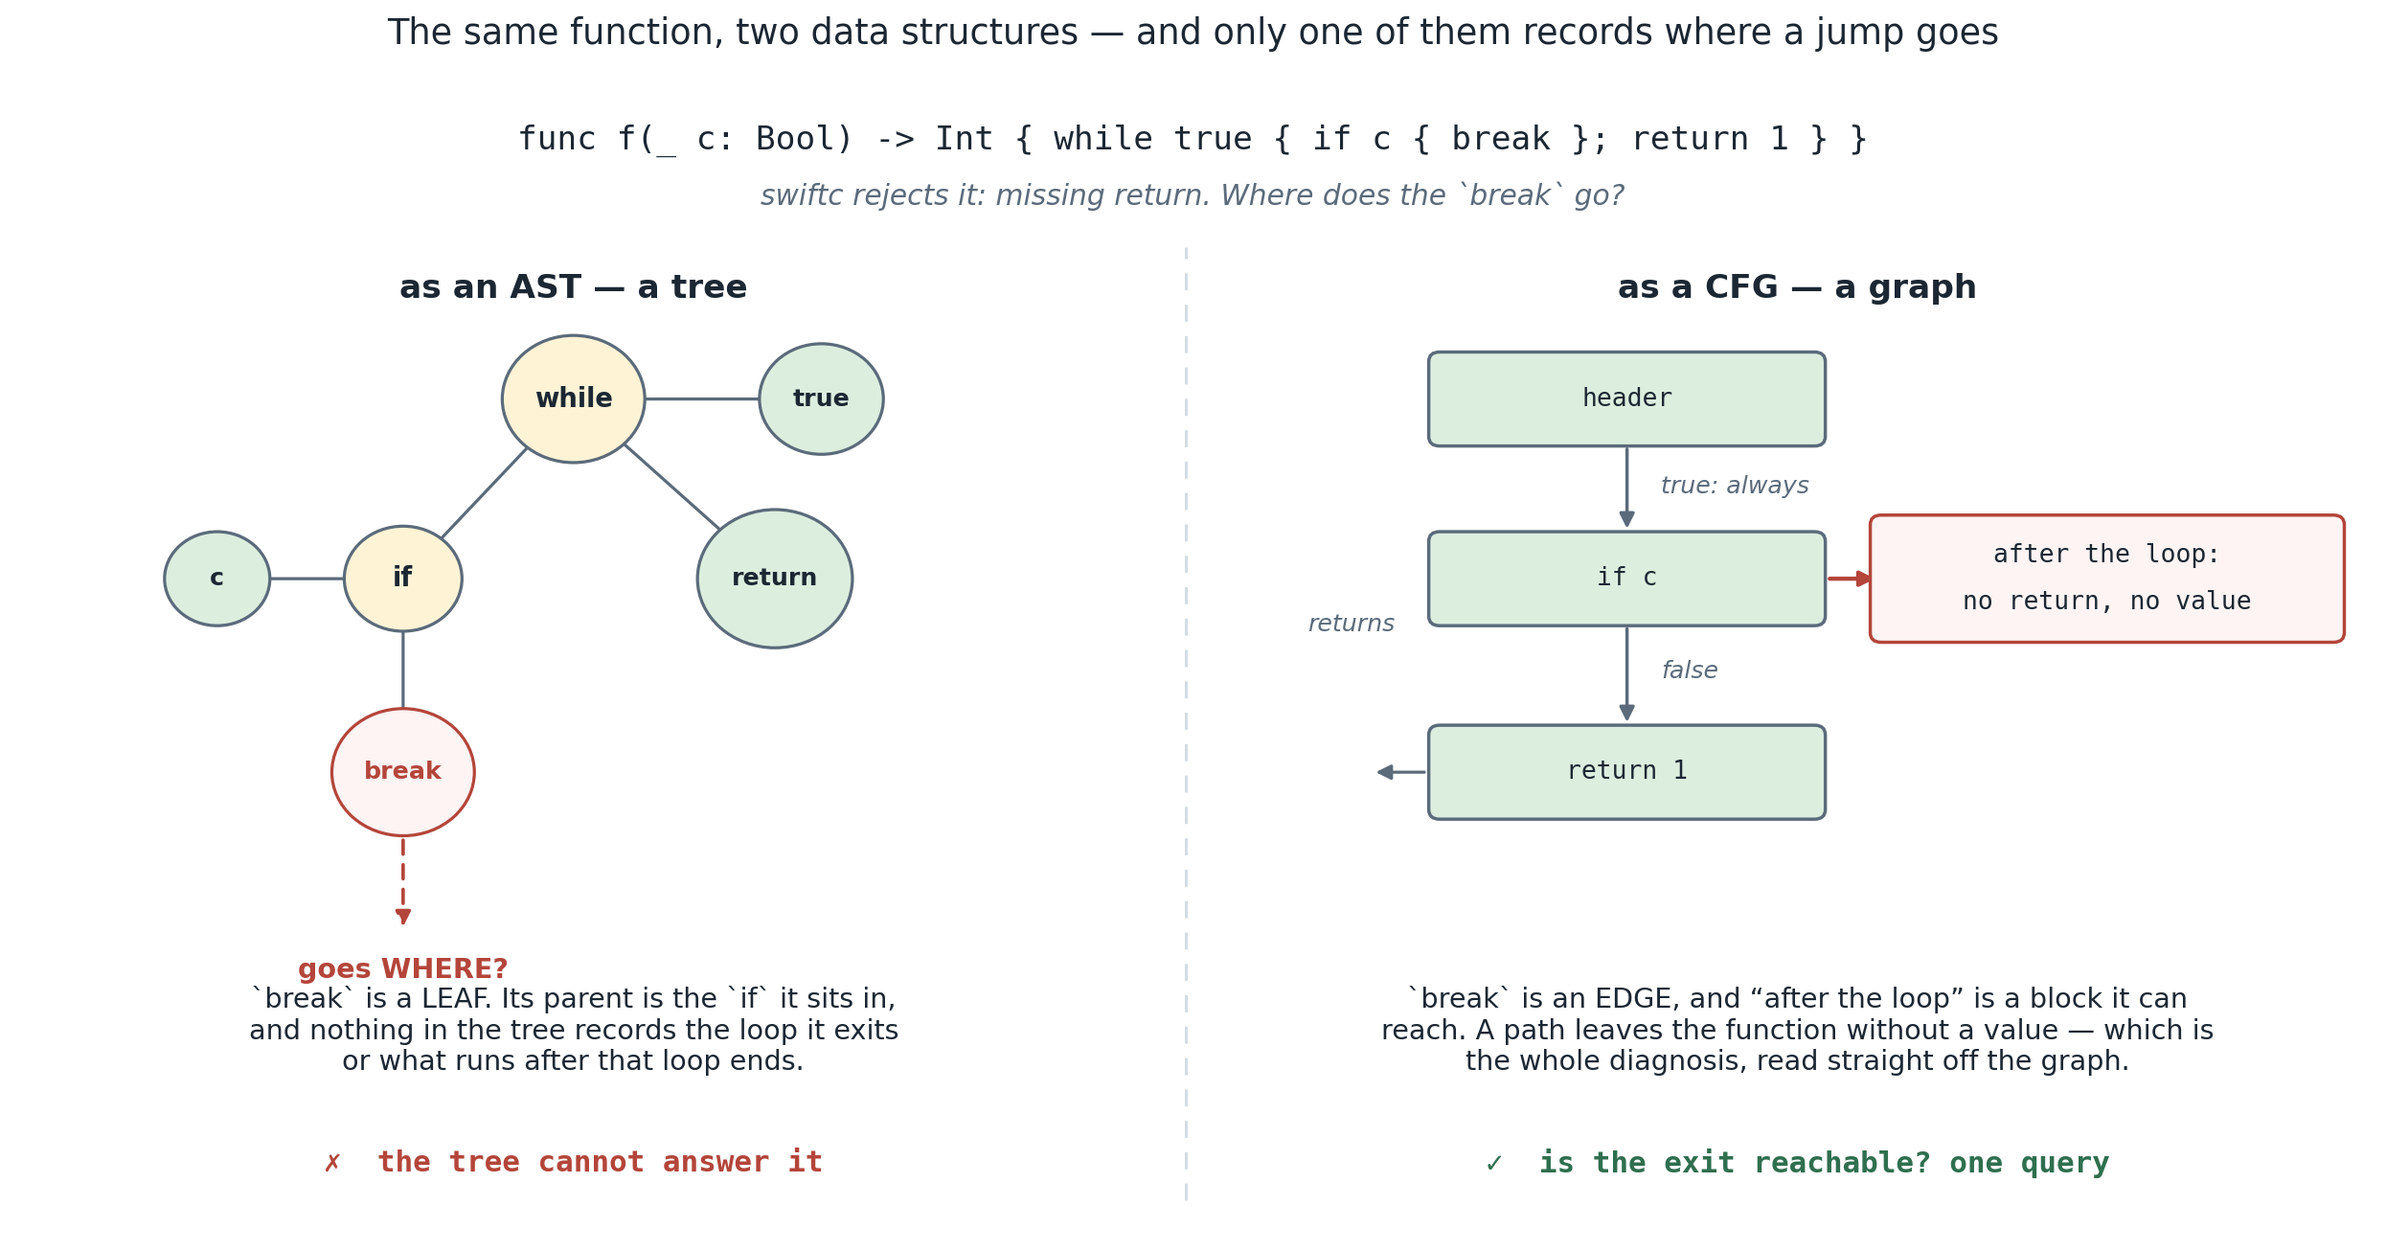
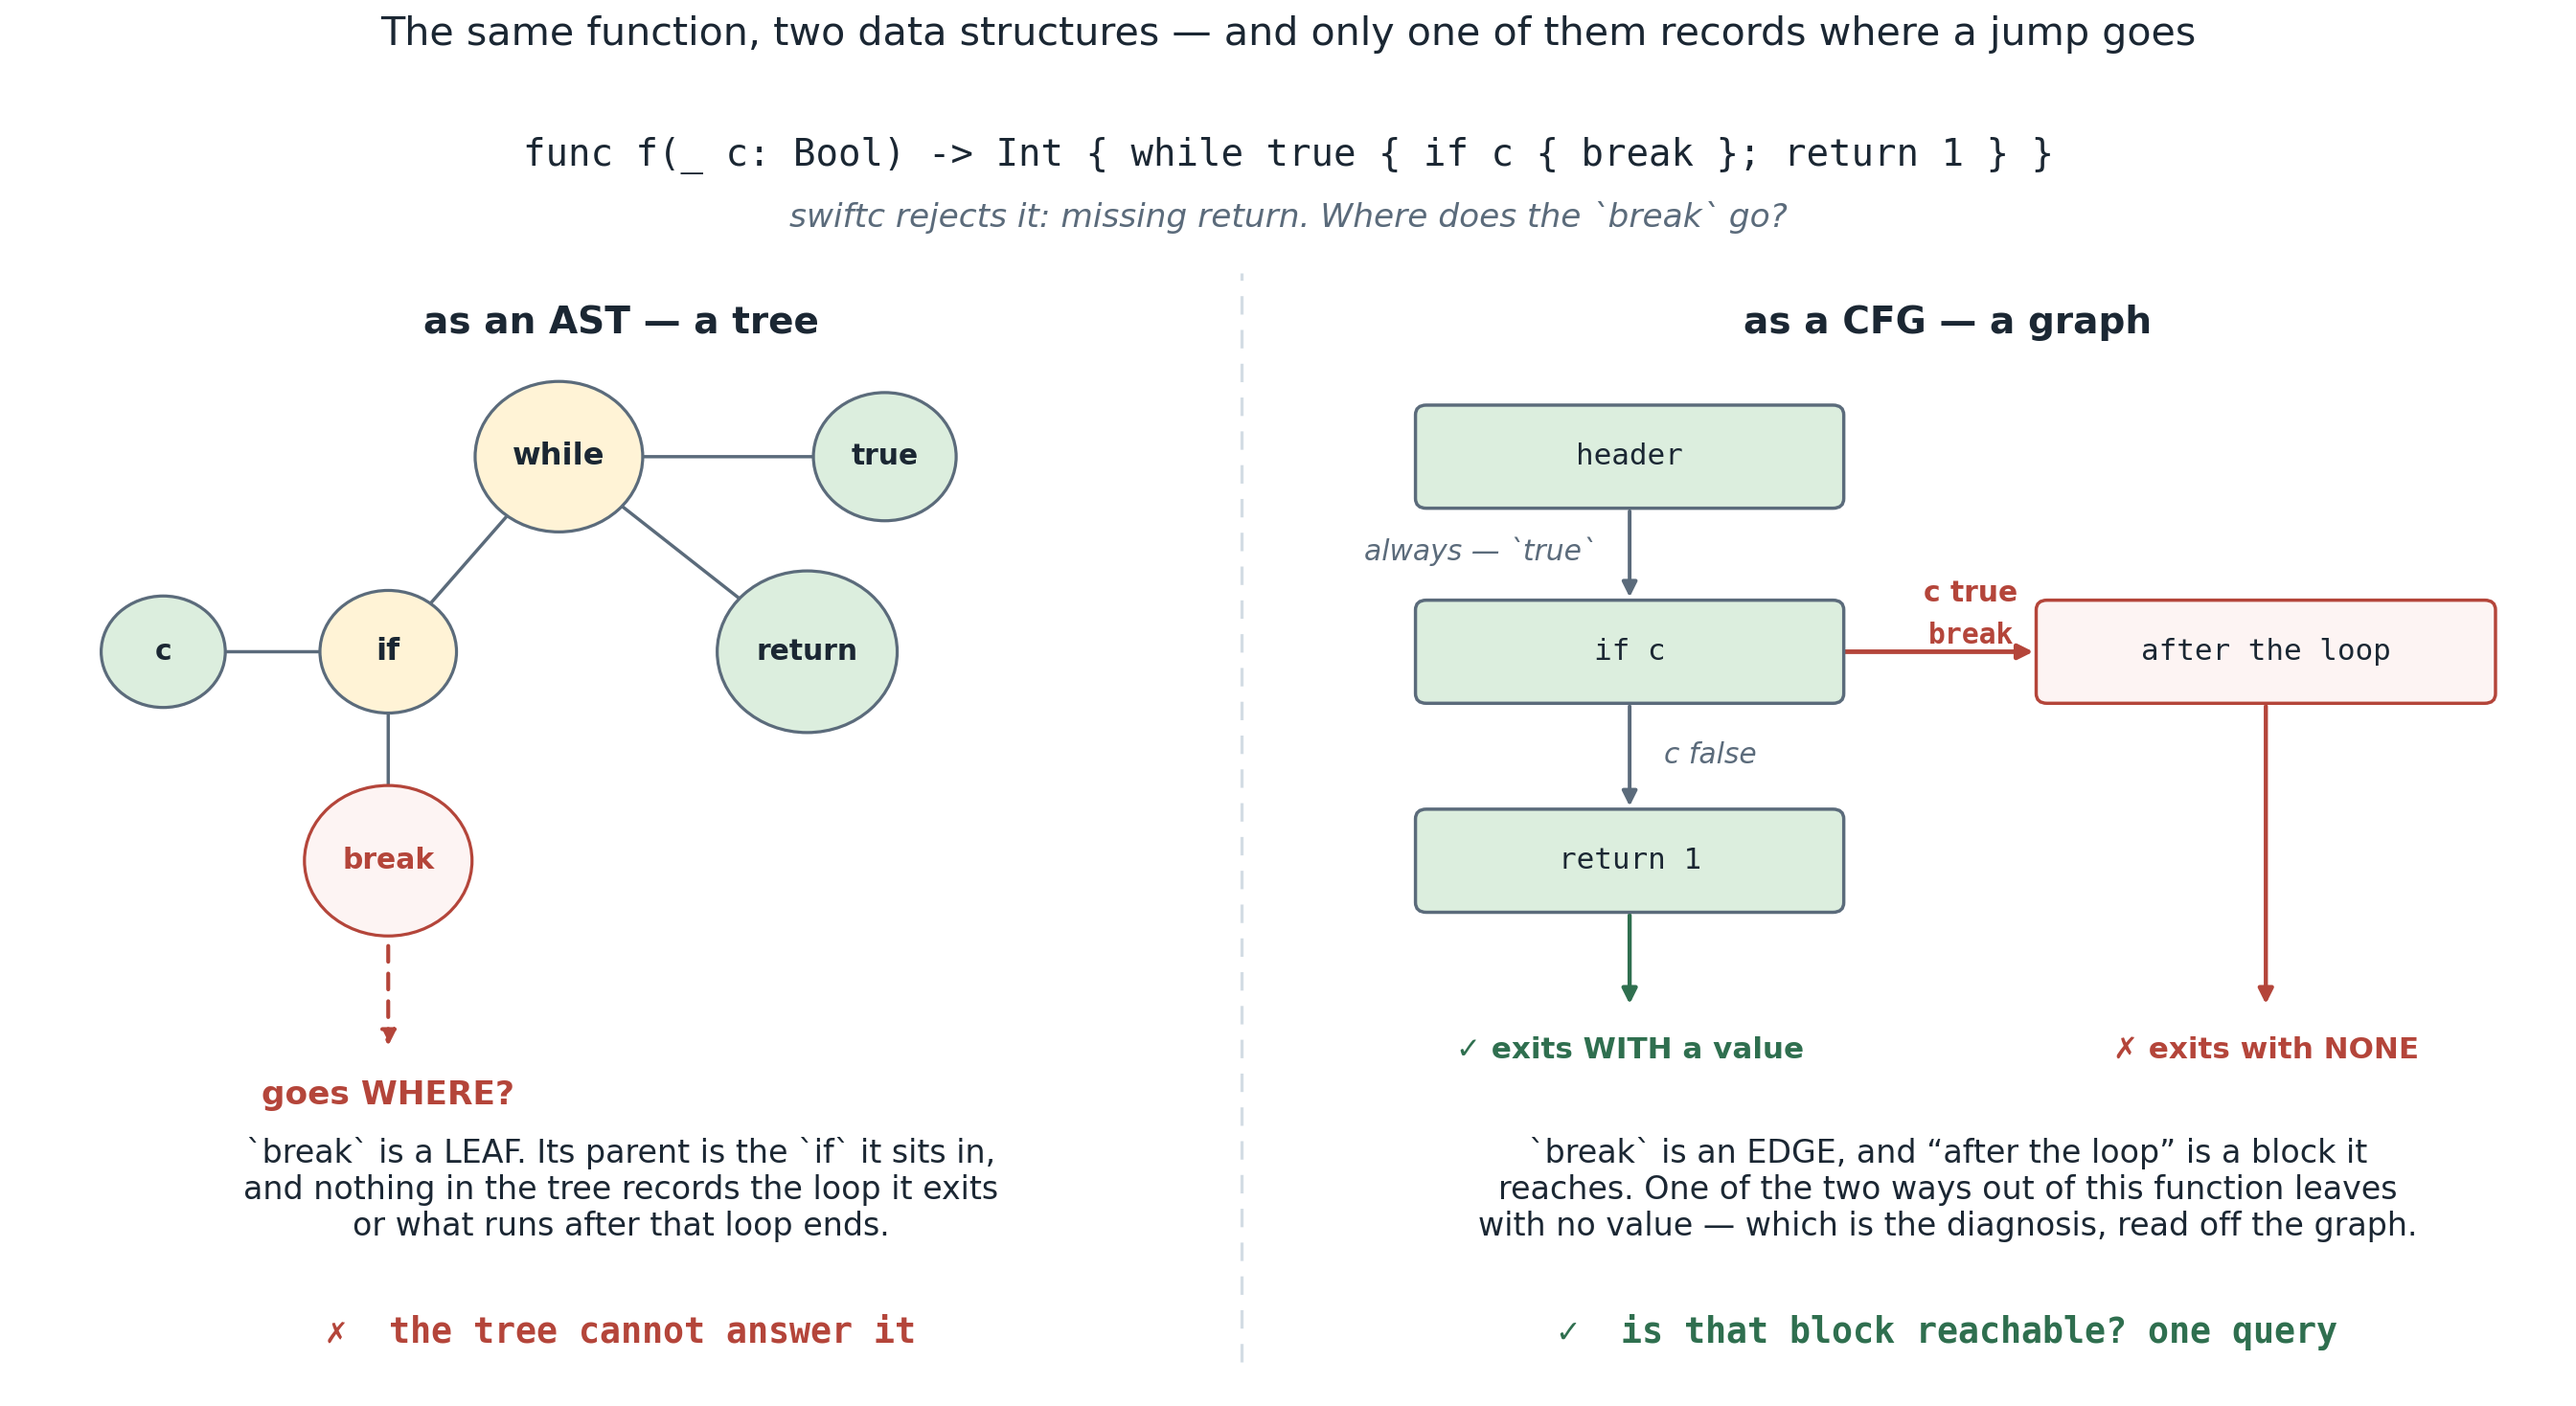
docs(07): bigger type in break.png, and fix the two edge problems
Fonts up throughout — node labels 12 -> 14, block contents 11.5 -> 13.5, body
prose 12.5 -> 14.5, verdicts 13.5 -> 16, title 16 -> 18 — on a wider canvas.

Two things the edges got wrong. The `if c` branches were labelled "break" on one
side and "false" on the other, as though they were different tests; they now read
"c true / break" and "c false", which is one test with two sides.

And a stray "returns" label floated beside `return 1` with nothing to attach to.
Both ways out of the function are now drawn instead: return 1 exits WITH a value,
after-the-loop exits with NONE. That pair IS the diagnosis, so the figure should
show it rather than describe it.

Claude-Session: https://claude.ai/code/session_012HhuWctRnBFnsXUE9JbRuD

diff --git a/course/phase2-types-flow/07-functions/figs/make_figs.py b/course/phase2-types-flow/07-functions/figs/make_figs.py
@@ -162,13 +162,13 @@ def node(ax, x, y, label, face, edge, r=0.40, size=12, tcol=None):
             color=tcol or TEXT, zorder=5)
 
 
-def blk(ax, x, y, w, h, lines, face, edge):
+def blk(ax, x, y, w, h, lines, face, edge, size=13.5):
     ax.add_patch(FancyBboxPatch((x - w / 2, y - h / 2), w, h,
                  boxstyle="round,pad=0.03,rounding_size=0.07", linewidth=1.5,
                  edgecolor=edge, facecolor=face, zorder=4))
     ly = y + (len(lines) - 1) * 0.17
     for t in lines:
-        ax.text(x, ly, t, ha="center", va="center", fontsize=11.5, family="monospace",
+        ax.text(x, ly, t, ha="center", va="center", fontsize=size, family="monospace",
                 color=TEXT, zorder=5)
         ly -= 0.34
 
@@ -182,81 +182,87 @@ def link(ax, p0, p1, colour=EDGE, rad=0.0, lw=1.5, style="-|>", dash=None, z=3):
 
 
 def make_break():
-    fig, ax = plt.subplots(figsize=(15.2, 8.0))
-    ax.set_xlim(0, 15.2)
-    ax.set_ylim(0, 8.4)
+    fig, ax = plt.subplots(figsize=(16.4, 9.0))
+    ax.set_xlim(0, 16.4)
+    ax.set_ylim(0, 9.4)
     ax.axis("off")
 
-    ax.text(7.6, 7.92, "func f(_ c: Bool) -> Int { while true { if c { break }; return 1 } }",
-            ha="center", va="center", fontsize=15, family="monospace", color=TEXT)
-    ax.text(7.6, 7.52, "swiftc rejects it: missing return. Where does the `break` go?",
-            ha="center", va="center", fontsize=13, color=DIM, style="italic")
+    ax.text(8.2, 8.86, "func f(_ c: Bool) -> Int { while true { if c { break }; return 1 } }",
+            ha="center", va="center", fontsize=17, family="monospace", color=TEXT)
+    ax.text(8.2, 8.42, "swiftc rejects it: missing return. Where does the `break` go?",
+            ha="center", va="center", fontsize=15, color=DIM, style="italic")
 
     # ------------------------------- the AST ------------------------------------------
-    ax.text(3.6, 6.85, "as an AST \u2014 a tree", ha="center", va="center", fontsize=15,
+    ax.text(3.9, 7.66, "as an AST \u2014 a tree", ha="center", va="center", fontsize=17,
             fontweight="bold", color=TEXT)
 
-    W, IF, BR, RET, CND, VC = (3.6, 6.05), (2.5, 4.75), (2.5, 3.35), (4.9, 4.75), \
-                              (5.2, 6.05), (1.3, 4.75)
+    W, CND, IF, VC, BR, RET = (3.5, 6.70), (5.6, 6.70), (2.4, 5.30), (0.95, 5.30), \
+                              (2.4, 3.80), (5.1, 5.30)
     for p0, p1 in [(W, CND), (W, IF), (W, RET), (IF, VC), (IF, BR)]:
-        link(ax, p0, p1, EDGE, style="-", lw=1.4, z=2)
-    node(ax, *W, "while", COND := "#fff3d6", EDGE, r=0.46)
-    node(ax, *CND, "true", CHK, EDGE, r=0.40, size=11)
-    node(ax, *IF, "if", COND, EDGE, r=0.38)
-    node(ax, *VC, "c", CHK, EDGE, r=0.34, size=11)
-    node(ax, *RET, "return", CHK, EDGE, r=0.50, size=11)
-    node(ax, *BR, "break", BADBG, BAD, r=0.46, size=11, tcol=BAD)
+        link(ax, p0, p1, EDGE, style="-", lw=1.5, z=2)
+    node(ax, *W, "while", "#fff3d6", EDGE, r=0.54, size=14)
+    node(ax, *CND, "true", CHK, EDGE, r=0.46, size=13)
+    node(ax, *IF, "if", "#fff3d6", EDGE, r=0.44, size=14)
+    node(ax, *VC, "c", CHK, EDGE, r=0.40, size=13)
+    node(ax, *RET, "return", CHK, EDGE, r=0.58, size=13)
+    node(ax, *BR, "break", BADBG, BAD, r=0.54, size=13, tcol=BAD)
 
-    # the question the tree cannot answer
-    link(ax, (2.5, 2.89), (2.5, 2.20), BAD, lw=1.6, dash=(0, (4, 3)))
-    ax.text(2.5, 1.92, "goes WHERE?", ha="center", va="center", fontsize=12.5,
+    link(ax, (2.4, 3.22), (2.4, 2.44), BAD, lw=1.8, dash=(0, (4, 3)))
+    ax.text(2.4, 2.12, "goes WHERE?", ha="center", va="center", fontsize=15,
             color=BAD, fontweight="bold")
-    ax.text(3.6, 1.48, "`break` is a LEAF. Its parent is the `if` it sits in,\n"
+    ax.text(3.9, 1.44, "`break` is a LEAF. Its parent is the `if` it sits in,\n"
             "and nothing in the tree records the loop it exits\n"
             "or what runs after that loop ends.",
-            ha="center", va="center", fontsize=12.5, color=TEXT)
-    ax.text(3.6, 0.52, "\u2717  the tree cannot answer it", ha="center", va="center",
-            fontsize=13.5, fontweight="bold", color=BAD, family="monospace")
+            ha="center", va="center", fontsize=14.5, color=TEXT)
+    ax.text(3.9, 0.42, "\u2717  the tree cannot answer it", ha="center", va="center",
+            fontsize=16, fontweight="bold", color=BAD, family="monospace")
 
-    ax.plot([7.55, 7.55], [0.25, 7.15], color="#d3dce4", linewidth=1.3,
+    ax.plot([7.9, 7.9], [0.2, 8.02], color="#d3dce4", linewidth=1.4,
             linestyle=(0, (6, 5)))
 
     # ------------------------------- the CFG ------------------------------------------
-    ax.text(11.5, 6.85, "as a CFG \u2014 a graph", ha="center", va="center", fontsize=15,
+    ax.text(12.45, 7.66, "as a CFG \u2014 a graph", ha="center", va="center", fontsize=17,
             fontweight="bold", color=TEXT)
 
-    hdr, tst, ret, aft = (10.4, 6.05), (10.4, 4.75), (10.4, 3.35), (13.5, 4.75)
-    blk(ax, *hdr, 2.5, 0.62, ["header"], CHK, EDGE)
-    blk(ax, *tst, 2.5, 0.62, ["if c"], CHK, EDGE)
-    blk(ax, *ret, 2.5, 0.62, ["return 1"], CHK, EDGE)
-    blk(ax, *aft, 3.0, 0.86, ["after the loop:", "no return, no value"], BADBG, BAD)
+    hdr, tst, ret, aft = (10.4, 6.70), (10.4, 5.30), (10.4, 3.80), (14.5, 5.30)
+    blk(ax, *hdr, 2.7, 0.68, ["header"], CHK, EDGE)
+    blk(ax, *tst, 2.7, 0.68, ["if c"], CHK, EDGE)
+    blk(ax, *ret, 2.7, 0.68, ["return 1"], CHK, EDGE)
+    blk(ax, *aft, 2.9, 0.68, ["after the loop"], BADBG, BAD)
 
-    link(ax, (hdr[0], hdr[1] - 0.33), (tst[0], tst[1] + 0.33))
-    ax.text(10.62, 5.42, "true: always", ha="left", va="center", fontsize=11,
-            color=DIM, style="italic")
-    link(ax, (tst[0], tst[1] - 0.33), (ret[0], ret[1] + 0.33))
-    ax.text(10.62, 4.08, "false", ha="left", va="center", fontsize=11, color=DIM,
-            style="italic")
-    link(ax, (tst[0] + 1.28, tst[1]), (aft[0] - 1.47, aft[1]), BAD, lw=1.9)
-    ax.text(12.35, 5.02, "break", ha="center", va="center", fontsize=12,
+    link(ax, (hdr[0], hdr[1] - 0.36), (tst[0], tst[1] + 0.36), lw=1.7)
+    ax.text(10.18, 6.02, "always \u2014 `true`", ha="right", va="center",
+            fontsize=13, color=DIM, style="italic")
+
+    # the two sides of `if c`, labelled as the SAME test
+    link(ax, (tst[0] + 1.36, tst[1]), (aft[0] - 1.47, aft[1]), BAD, lw=2.1)
+    ax.text(12.60, 5.72, "c true", ha="center", va="center", fontsize=13,
             color=BAD, fontweight="bold")
-    # NO back edge: the body cannot fall through to the header, because its other path
-    # returns. This loop runs at most one iteration, which the graph shows and the tree
-    # does not.
-    link(ax, (ret[0] - 1.28, ret[1]), (8.75, ret[1]), EDGE, lw=1.4)
-    ax.text(8.62, 4.42, "returns", ha="center", va="center", fontsize=11, color=DIM,
+    ax.text(12.60, 5.42, "break", ha="center", va="center", fontsize=13,
+            color=BAD, fontweight="bold", family="monospace")
+
+    link(ax, (tst[0], tst[1] - 0.36), (ret[0], ret[1] + 0.36), lw=1.7)
+    ax.text(10.62, 4.56, "c false", ha="left", va="center", fontsize=13, color=DIM,
             style="italic")
 
-    ax.text(11.5, 1.48, "`break` is an EDGE, and \u201cafter the loop\u201d is a block it can\n"
-            "reach. A path leaves the function without a value \u2014 which is\n"
-            "the whole diagnosis, read straight off the graph.",
-            ha="center", va="center", fontsize=12.5, color=TEXT)
-    ax.text(11.5, 0.52, "\u2713  is the exit reachable? one query", ha="center", va="center",
-            fontsize=13.5, fontweight="bold", color=GOOD, family="monospace")
+    # the two ways out of the function, which is the whole comparison
+    link(ax, (ret[0], ret[1] - 0.36), (ret[0], 2.74), GOOD, lw=1.9)
+    ax.text(10.4, 2.44, "\u2713 exits WITH a value", ha="center", va="center",
+            fontsize=13.5, color=GOOD, fontweight="bold")
+    link(ax, (aft[0], aft[1] - 0.36), (aft[0], 2.74), BAD, lw=1.9)
+    ax.text(14.5, 2.44, "\u2717 exits with NONE", ha="center", va="center",
+            fontsize=13.5, color=BAD, fontweight="bold")
+
+    ax.text(12.45, 1.44, "`break` is an EDGE, and \u201cafter the loop\u201d is a block it\n"
+            "reaches. One of the two ways out of this function leaves\n"
+            "with no value \u2014 which is the diagnosis, read off the graph.",
+            ha="center", va="center", fontsize=14.5, color=TEXT)
+    ax.text(12.45, 0.42, "\u2713  is that block reachable? one query", ha="center",
+            va="center", fontsize=16, fontweight="bold", color=GOOD, family="monospace")
 
     ax.set_title("The same function, two data structures \u2014 and only one of them "
                  "records where a jump goes",
-                 fontsize=16, color=TEXT, pad=14)
+                 fontsize=18, color=TEXT, pad=16)
     fig.tight_layout()
     out = os.path.join(HERE, "break.png")
     fig.savefig(out, dpi=165, bbox_inches="tight")
